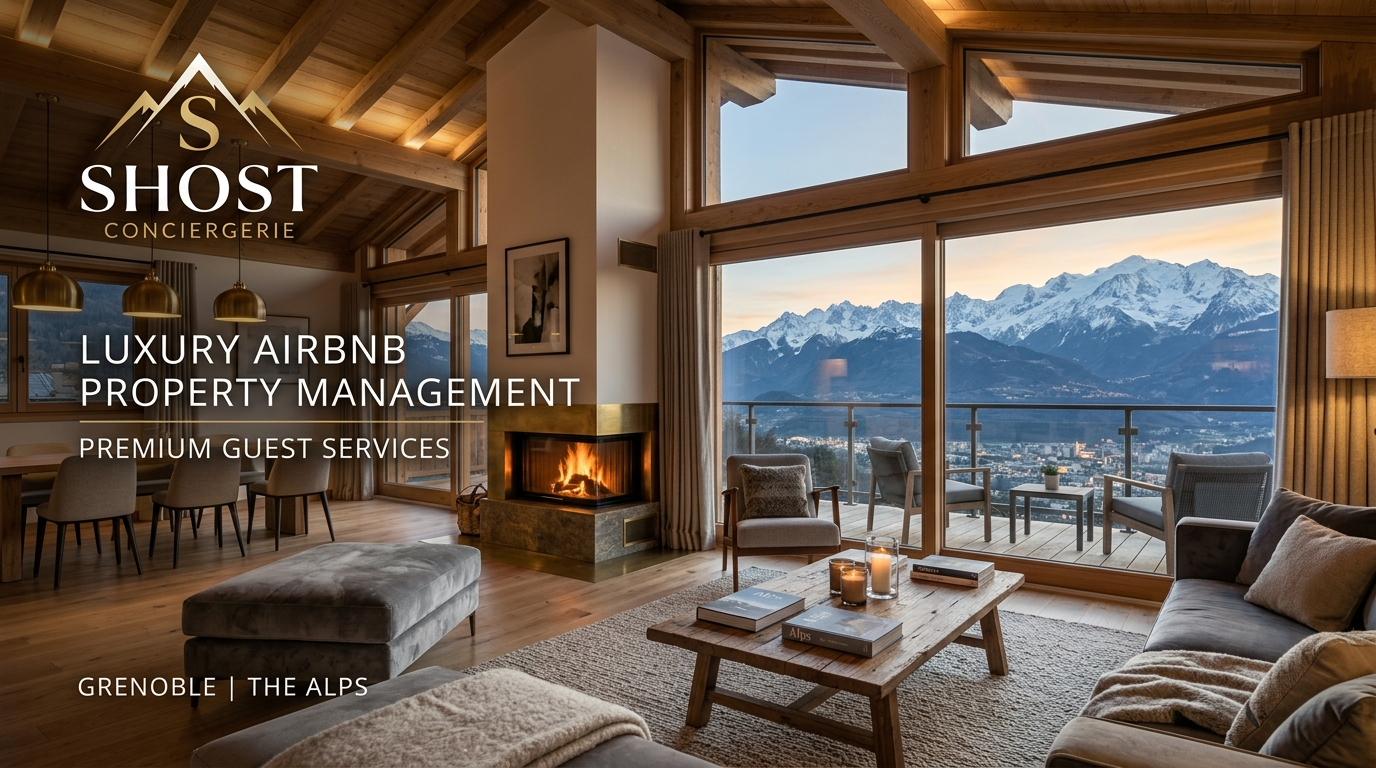
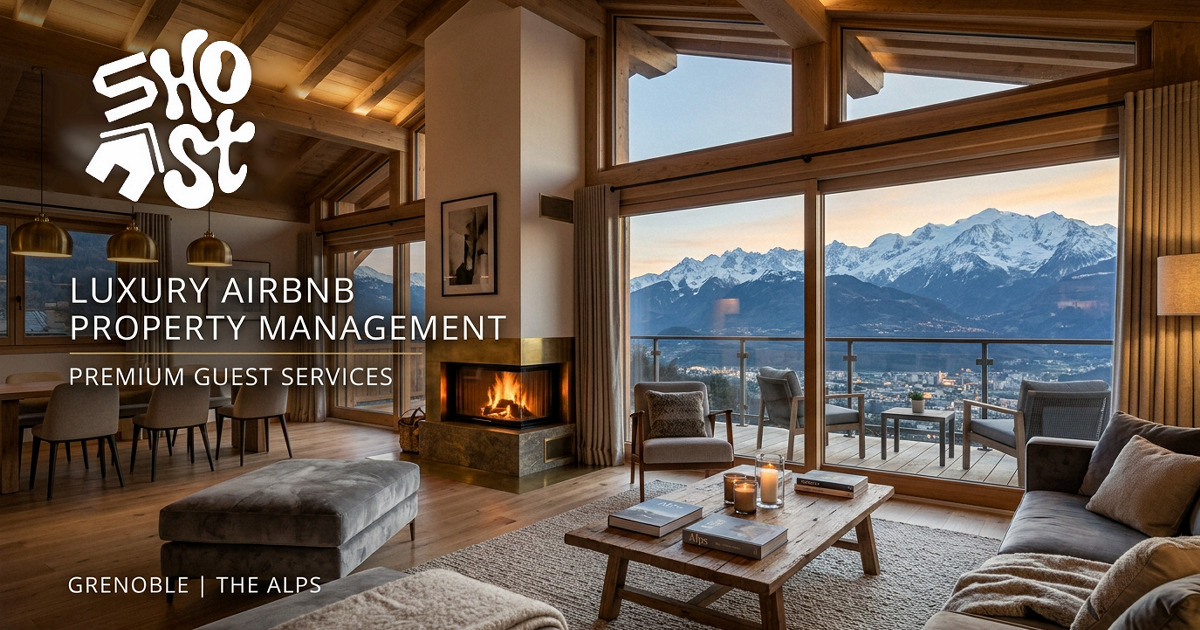
chore: update Open Graph metadata and images
Updated the OG image asset for 2026 and improved meta tags to ensure better preview support across social media platforms like Facebook and WhatsApp.

diff --git a/index.html b/index.html
@@ -13,14 +13,17 @@
     <link rel="shortcut icon" href="/favicon.png" />
     <link rel="apple-touch-icon" href="/favicon.png" />
 
-    <!-- Open Graph / Facebook -->
+    <!-- Open Graph / Facebook / WhatsApp -->
     <meta property="og:type" content="website" />
     <meta property="og:url" content="https://shost-services.com/" />
     <meta property="og:title" content="Conciergerie Airbnb Grenoble | SHOST Gestion Locative" />
     <meta property="og:description" content="Conciergerie Airbnb à Grenoble & Isère. Gestion locative complète : ménage, clés, voyageurs, tarification dynamique. Estimez vos revenus gratuitement." />
-    <meta property="og:image" content="https://shost-services.com/og-image.jpg" />
+    <meta property="og:image" content="https://shost-services.com/og-image-shost-2026.jpg" />
+    <meta property="og:image:secure_url" content="https://shost-services.com/og-image-shost-2026.jpg" />
+    <meta property="og:image:type" content="image/jpeg" />
     <meta property="og:image:width" content="1200" />
     <meta property="og:image:height" content="630" />
+    <meta property="og:image:alt" content="SHOST Conciergerie Airbnb Grenoble & Isère - Aperçu officiel" />
     <meta property="og:site_name" content="SHOST Conciergerie" />
     <meta property="og:locale" content="fr_FR" />
 
@@ -29,7 +32,7 @@
     <meta name="twitter:url" content="https://shost-services.com/" />
     <meta name="twitter:title" content="Conciergerie Airbnb Grenoble | SHOST Gestion Locative" />
     <meta name="twitter:description" content="Conciergerie Airbnb à Grenoble & Isère. Gestion locative complète : ménage, clés, voyageurs, tarification dynamique. Estimez vos revenus gratuitement." />
-    <meta name="twitter:image" content="https://shost-services.com/og-image.jpg" />
+    <meta name="twitter:image" content="https://shost-services.com/og-image-shost-2026.jpg" />
 
     <!-- Preload Fonts & Resources -->
     <link rel="preconnect" href="https://fonts.googleapis.com" />
@@ -47,7 +50,7 @@
             "legalName": "SHOST",
             "url": "https://shost-services.com/",
             "logo": "https://shost-services.com/Logo-sans-fond.png",
-            "image": "https://shost-services.com/og-image.jpg",
+            "image": "https://shost-services.com/og-image-shost-2026.jpg",
             "description": "Conciergerie Airbnb haut de gamme et gestion locative courte durée à Grenoble et en Isère. Création d'annonces, accueil 24/7, ménage hôtelier et tarification dynamique.",
             "telephone": "+33 6 26 29 06 49",
             "email": "shost.services@gmail.com",
